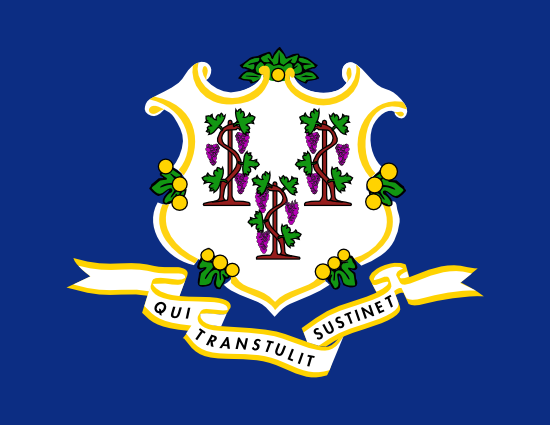
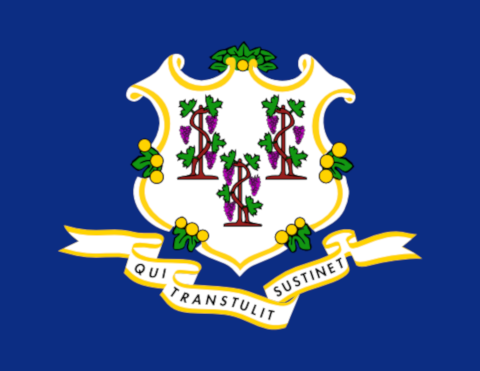
Resized a few images to smaller size. Change attemp time from 10 to 8

Changed region(s): [[0.1562, 0.1186, 0.875, 0.8895], [0.125, 0.593, 0.1875, 0.6819], [0.6875, 0.2372, 0.75, 0.2965]]

diff --git a/index.html b/index.html
@@ -20,7 +20,7 @@
 
         <div class="row">
             <div class="col-xs-12 col-sm-8 offset-sm-2 text-center">
-                <h1 class="hangman-title">GUESS THY STATE</h1>
+                <h1 class="hangman-title">GUESS THAT STATE</h1>
             </div>
         </div> <!-- end of row -->
 
@@ -36,6 +36,7 @@
         <div class="row hangman-row">
             
             <div class="col-sm-12 offset-md-1 col-md-4 text-center border border-secondary">
+                <br>
                 <p id="result" class="result-luck">GOOD LUCK!</p>
                 <br>
                 <p id="notice" class="notice">PRESS ANY KEY TO START</p>

diff --git a/assets/javascript/game.js b/assets/javascript/game.js
@@ -31,7 +31,7 @@ var hangman = {
     targetWord: "",
     currentWord: "",
     guessedLetters: [],
-    remainGuesses: 10,
+    remainGuesses: 8,
     audioElementWin: document.createElement("audio"),
     audioElementLose: document.createElement("audio"),
 
@@ -160,7 +160,7 @@ var hangman = {
         this.guessedLetters.length = 0;
 
         // Reset remaining guesses to the original value
-        this.remainGuesses = 10;
+        this.remainGuesses = 8;
 
         // Get a random word
         var randomNum = Math.floor(Math.random() * (words.length));

diff --git a/assets/css/style.css b/assets/css/style.css
@@ -1,7 +1,7 @@
 
 .hangman-title {
     color: #fff;
-    font-size: 3rem;
+    font-size: 2.5rem;
     font-weight: bold;
     font-family: Helvetica;
     text-shadow: 0 1px 0 #ccc, 0 2px 0 #c9c9c9, 0 3px 0 #bbb, 0 4px 0 #b9b9b9, 0 5px 0 #aaa, 0 6px 1px rgba(0,0,0,.1), 0 0 5px rgba(0,0,0,.1), 0 1px 3px rgba(0,0,0,.3), 0 3px 5px rgba(0,0,0,.2), 0 5px 10px rgba(0,0,0,.25), 0 10px 10px rgba(0,0,0,.2), 0 20px 20px rgba(0,0,0,.15);
